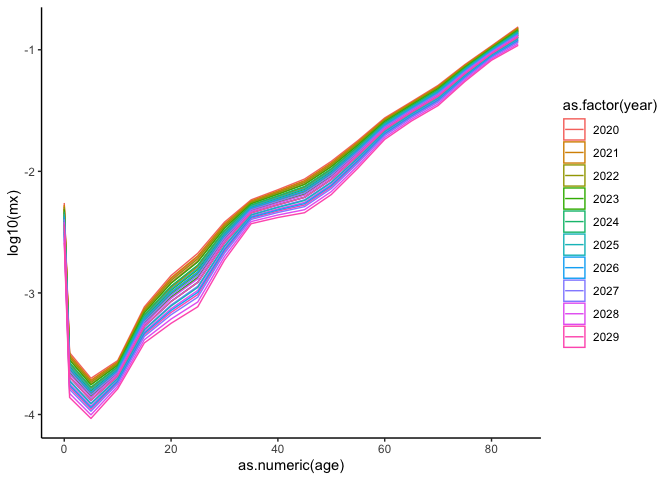
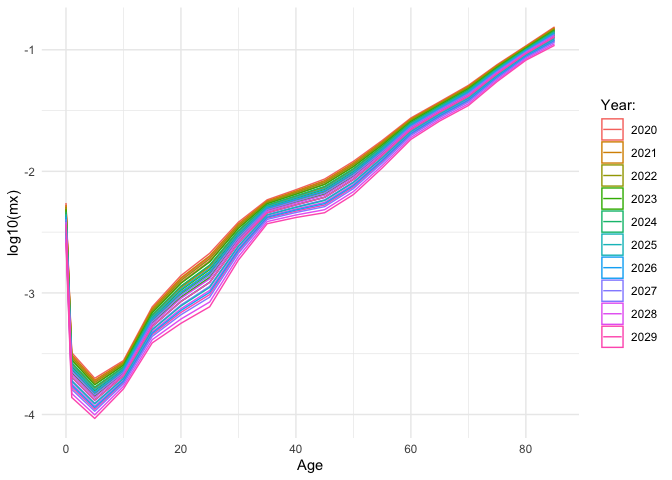
0.0.0.959

diff --git a/README.md b/README.md
@@ -2,7 +2,7 @@ Demor package for basic demographic analysis
 ================
 
 - [Installation](#installation)
-- [Get ROSBRIS data](#get-rosbris-data)
+- [Get Rosbris data](#get-rosbris-data)
 - [Mortality](#mortality)
   - [Life table](#life-table)
   - [Human Life Indicator (HLI)](#human-life-indicator-hli)
@@ -25,7 +25,7 @@ The goal of `demor` is to provide you with:
 1. the most basic functions for demographic analysis  
 2. some data
 
-## Installation
+# Installation
 
 You can install the development version of `demor` from
 [GitHub](https://github.com/) with:
@@ -36,7 +36,7 @@ You can install the development version of `demor` from
 devtools::install_github("vadvu/demor")
 ```
 
-## Get ROSBRIS data
+# Get Rosbris data
 
 For getting data from
 [RosBris](http://demogr.nes.ru/index.php/ru/demogr_indicat/data) there
@@ -91,9 +91,9 @@ dbm[dbm$year==2010 & dbm$code==1100 & dbm$sex=="m" & dbm$territory=="t",]
 #> 20463 2010 1100         t   m  85 0.198593  231350  45944.49
 ```
 
-## Mortality
+# Mortality
 
-### Life table
+## Life table
 
 Now one can create *life table* based on gotten data for 2010-Russia
 using `LT()`.  
@@ -143,13 +143,16 @@ $\frac{l_x-l_y}{l_0}$.
 5. Life course ratio from age $x$ to $y$ that is the fraction of
 person-years lived from age $x$ onward: $\frac{T_y}{T_x}$.
 
-### Human Life Indicator (HLI)
+## Human Life Indicator (HLI)
 
 A good alternative to the *human development indicator* (HDI) is the
 *human life indicator* (HLI) proposed by Ghislandi, Sanderson and
 Scherbov ([2019](https://doi.org/10.1111/padr.12205)). It requires just
-$m_x$ (and it is based on *life table*). Lets calculate it using our
-example data:
+$m_x$ (and it is based on *life table*). It is calculated as geometric
+mean of lifespans: $$HLI = \prod_x^\omega{(x+a_x)^{d_x}}$$ where *x* is
+age and *a*, *d* are functions from *life table*.
+
+Lets calculate it using our example data:
 
 ``` r
 hli(
@@ -159,7 +162,7 @@ hli(
 #> [1] 55.19236
 ```
 
-### Years of Life Lost (YLL)
+## Years of Life Lost (YLL)
 
 One of the most popular (and relatively young) measure of *lifespan
 inequality* is “*years of life lost*” (YLL) proposed by Martinez et
@@ -241,7 +244,7 @@ provided by `demor` as dataframe.
 demor::sle_stand
 ```
 
-### Age decomposition of differences in life expectancies
+## Age decomposition of differences in life expectancies
 
 Also one can do simple *decomposition* between 2 populations. Lets use
 Russia-2000 as *base population* and Russia-2010 as *compared
@@ -306,7 +309,7 @@ ggplot(dec, aes( as.factor(age), ex12))+
 
 <img src="man/figures/README-unnamed-chunk-11-1.png" width="100%" />
 
-### Age and cause decomposition of differences in life expectancies
+## Age and cause decomposition of differences in life expectancies
 
 Also one can do *decomposition* between 2 populations by *age* and
 *causes*. Lets use example from Andreev & Shkolnikov
@@ -405,7 +408,7 @@ ggplot(data = decm_plot, aes(x = as.factor(age), y = ex12, fill = group))+
 
 <img src="man/figures/README-unnamed-chunk-14-1.png" width="100%" />
 
-### Lee-Carter model
+## Lee-Carter model
 
 Also in the `demor` there is `leecart()` function that provides users
 with basic *Lee-Carter model* (proposed by Lee and Carter in 1992 and
@@ -433,21 +436,24 @@ One can plot the results using
 ``` r
 ggplot(data = leecart_forecast[leecart_forecast$age=="0",], aes(year, ex))+
   geom_line()+geom_ribbon(aes(ymin = ex_low95, ymax = ex_high95), alpha = 0.3, fill = "red")+
-  theme_classic()
+  theme_classic()+
+  scale_x_continuous(breaks = seq(2020, 2030, 2))
 ```
 
 <img src="man/figures/README-unnamed-chunk-16-1.png" width="100%" />
 
 ``` r
 
+
 ggplot(data = leecart_forecast, aes(as.numeric(age), log10(mx), color = as.factor(year)))+
   geom_line()+geom_ribbon(aes(ymin = log10(mx_low95), ymax = log10(mx_high95)), alpha = 0)+
-  theme_classic()
+  theme_minimal()+
+  labs(x = "Age", color = "Year:")
 ```
 
 <img src="man/figures/README-unnamed-chunk-16-2.png" width="100%" />
 
-### Associated single decrement life table
+## Associated single decrement life table
 
 There is `asdt()` function that calculates *associated single decrement
 life table* (ASDT) for causes of death (*cause-deleted life table*). In
@@ -516,12 +522,12 @@ ggplot(data = asdt_neoplasm, aes(x = age))+
 
 <img src="man/figures/README-unnamed-chunk-18-2.png" width="100%" />
 
-## Fertility
+# Fertility
 
 For the analysis of fertility in the `demor` there are only a few (1…)
 functions, due to the author’s preference for mortality analysis…
 
-### TFR
+## TFR
 
 Lets get basic *fertility data* (asFR or $f_x$) from
 [RosBris](http://demogr.nes.ru/index.php/ru/demogr_indicat/data) using
@@ -568,7 +574,7 @@ tfr(
 #> [1] 1.58417
 ```
 
-## Other functions
+# Other functions
 
 Also in the `demor` there are some additional functions.  
 One of them is `plot_pyr` that plots population pyramid using
@@ -602,23 +608,23 @@ plot +
 
 <img src="man/figures/README-unnamed-chunk-23-1.png" width="100%" />
 
-## References
+# References
 
-- Center for Demographic Research, Moscow (Russia). 2023. “Russian
-  Fertility and Mortality Database (Rosbris)”
+- Center for Demographic Research (2023). *Russian Fertility and
+  Mortality Database (Rosbris)*.
   [URL](http://www.demogr.nes.ru/en/demogr_indicat/data)  
 - Andreev, E. M., & Kingkade, W. W. (2015). Average age at death in
   infancy and infant mortality level: Reconsidering the Coale-Demeny
-  formulas at current levels of low mortality. Demographic Research, 33,
-  363-390.  
+  formulas at current levels of low mortality. *Demographic Research*,
+  *33*, 363-390.  
 - Ghislandi, S., Sanderson, W. C., & Scherbov, S. (2019). A simple
-  measure of human development: The human life indicator. Population and
-  development review, 45(1), 219.  
-- Andreev, E. M., & Shkolnikov, V. M. (2012). An Excel spreadsheet for
+  measure of human development: The human life indicator. *Population
+  and development review*, *45*(*1*), 219-233.  
+- Andreev, E. M., & Shkolnikov, V. M. (2012). *An Excel spreadsheet for
   the decomposition of a difference between two values of an aggregate
   demographic measure by stepwise replacement running from young to old
-  ages. MPIDR Technical Report TR-2012-002.
+  ages*. MPIDR Technical Report TR-2012-002.
   [URL](https://www.demogr.mpg.de/en/publications_databases_6118/publications_1904/mpidr_technical_reports/an_excel_spreadsheet_for_the_decomposition_of_a_difference_between_two_values_of_an_aggregate_demographic_4591)  
 - Lee, R. D., & Carter, L. R. (1992). Modeling and forecasting US
-  mortality. Journal of the American statistical association, 87(419),
-  659-671.
+  mortality. *Journal of the American statistical association*,
+  *87*(*419*), 659-671.
